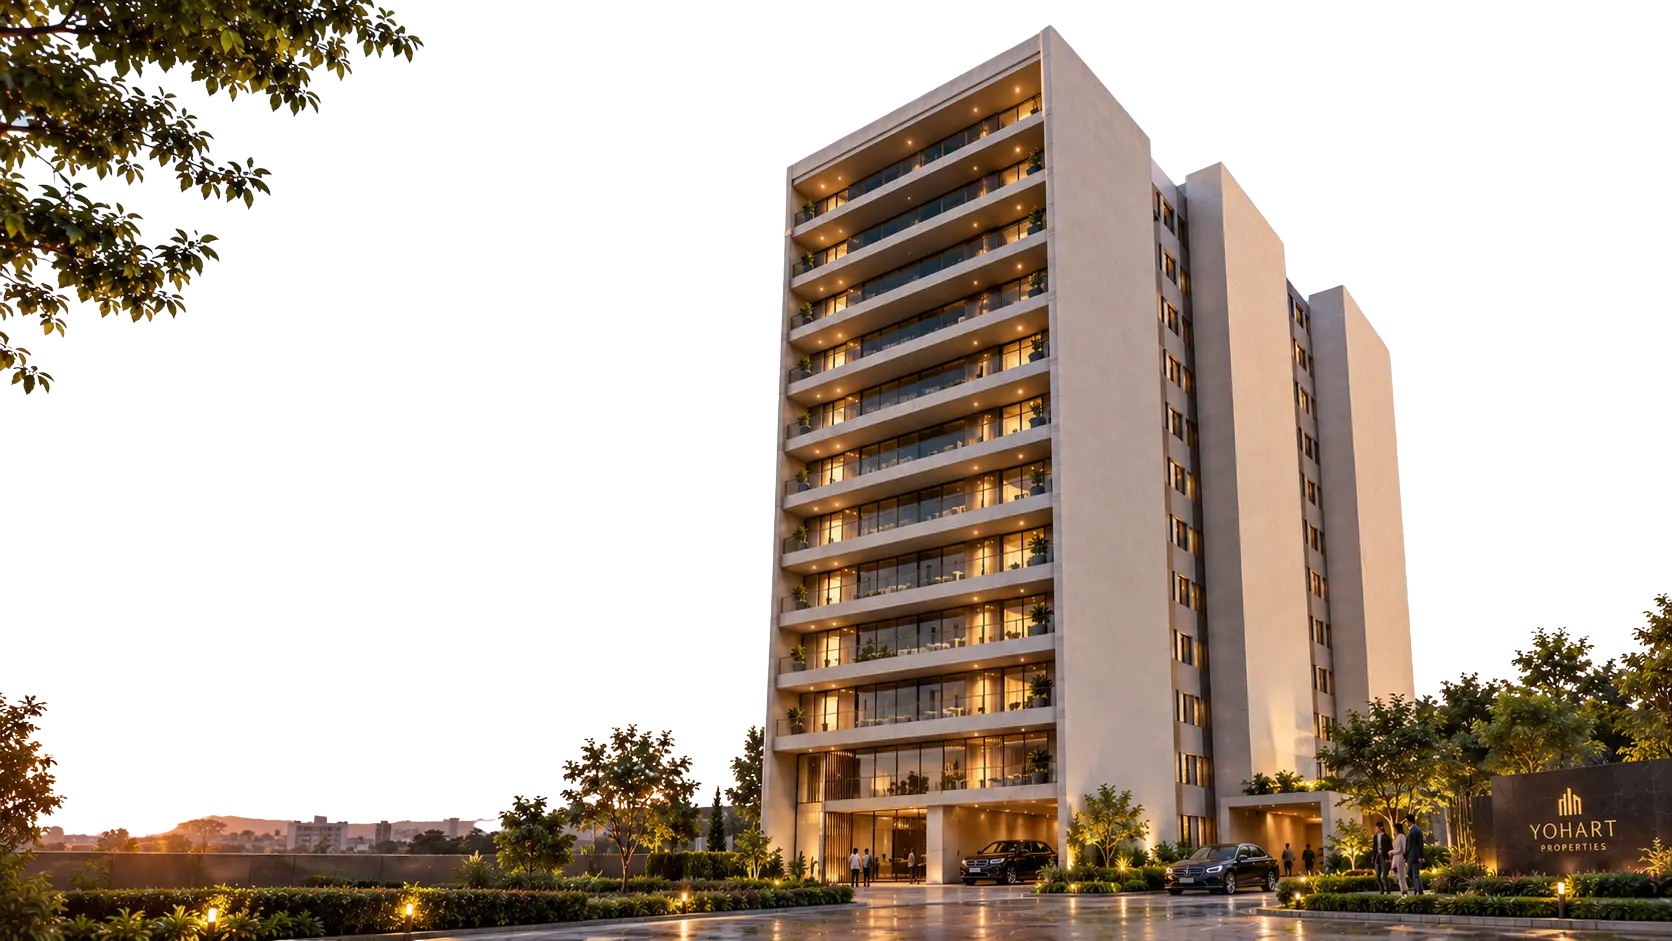
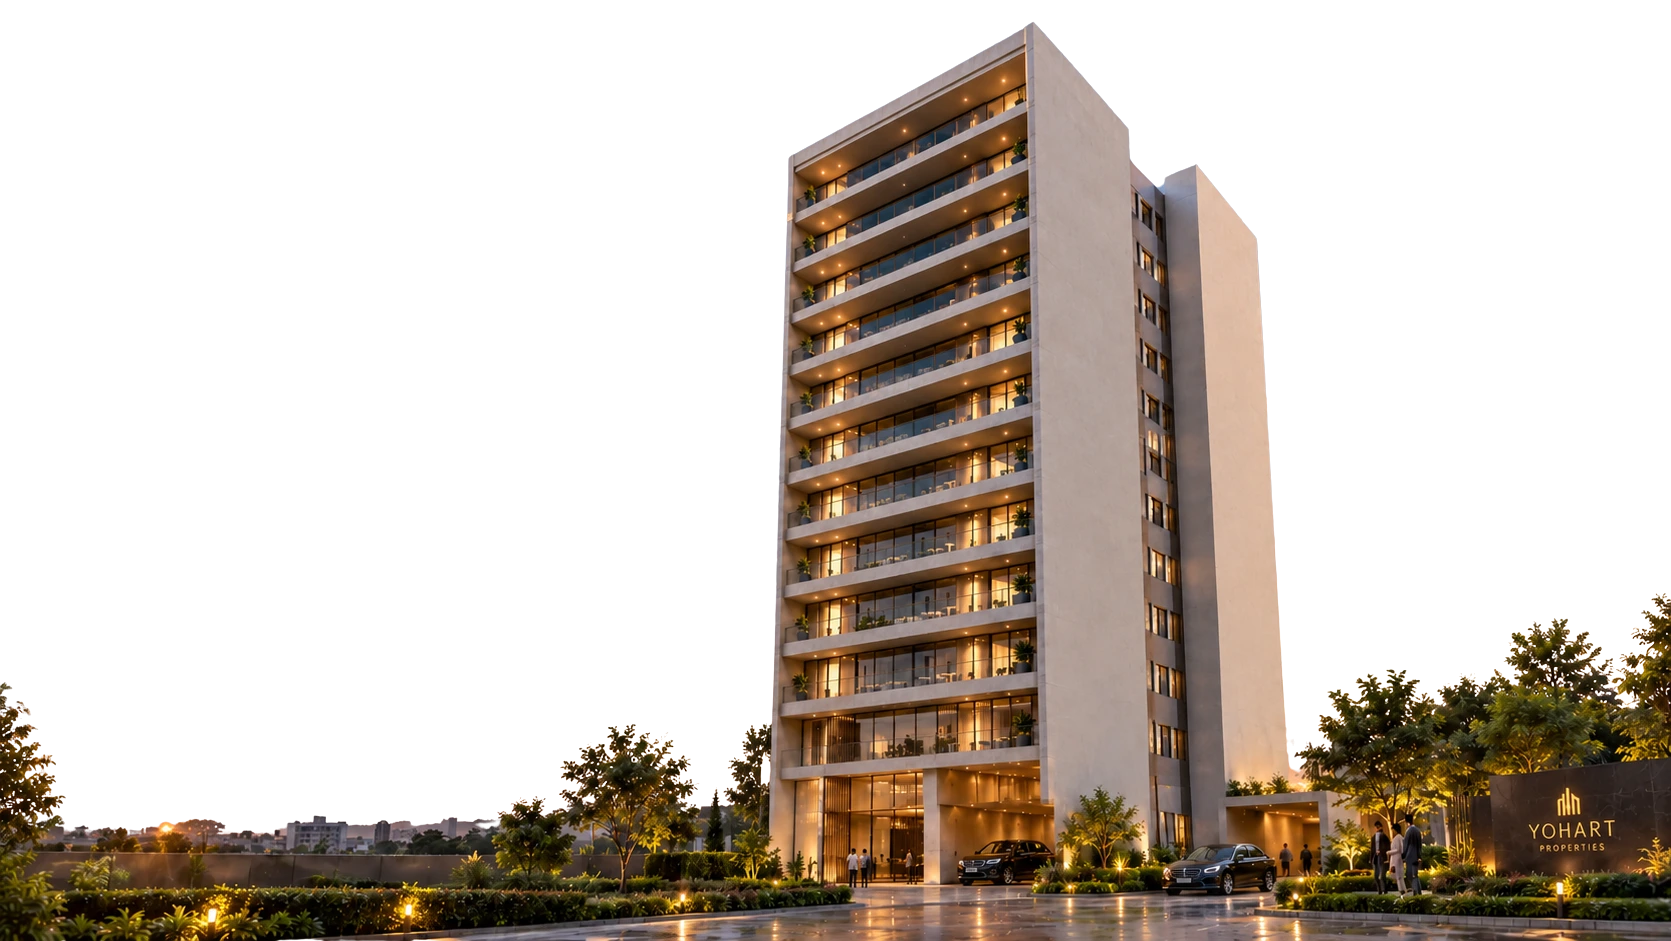
amenties section fix

Changed region(s): [[0.0, 0.0308, 1.0, 1.0], [0.0, 0.0, 0.249, 0.4315]]

diff --git a/src/components/sections/Amenities/Amenities.tsx b/src/components/sections/Amenities/Amenities.tsx
@@ -1,32 +1,43 @@
 import Image from 'next/image';
-import amenities from "@/assets/home/amenities/amenities-bg.webp"
+import amenities from "@/assets/home/amenities/amenities-bg.webp";
+
 export default function Amenities() {
   return (
-<section id="Amenities" className="relative z-1">
-  <div className="trigger relative flex min-h-screen w-full items-stretch overflow-clip">
-    <Image src={amenities} 
-    alt="Amenities" 
-    className="background absolute top-1/3 h-[calc(100%+20rem)] w-full -translate-y-1/2 object-cover max-md:object-[60%_50%]" 
-    loading="eager"/>
-    <div className="wrapper relative z-1 flex items-stretch max-lg:flex-col-reverse max-md:flex-col">
-      <div className="flex w-1/3 flex-col items-start justify-between py-30 max-lg:w-2/3 max-lg:flex-col-reverse max-lg:pt-0 max-lg:pb-15 max-md:w-3/4 max-md:pt-10 max-md:pb-5">
-      <div className="videoWrap relative aspect-[1.43/1] w-full overflow-hidden rounded-[1.25rem]">
-      <video muted loop playsInline preload="none" className="portrait absolute -top-35 left-1/2 h-auto w-[200%] max-w-none -translate-x-1/2 object-cover"></video>
+    <section id="Amenities" className="relative z-1">
+      <div className="trigger relative flex min-h-screen w-full items-stretch overflow-clip">
+        <Image 
+          src={amenities} 
+          alt="Amenities" 
+          className="background absolute top-1/3 h-[calc(100%+20rem)] w-full -translate-y-1/2 object-cover object-[38%_50%] max-md:object-[60%_50%]" 
+          loading="eager"
+        />
+        <div className="wrapper relative z-1 flex items-stretch justify-between gap-10 max-lg:flex-col-reverse">
+
+          <div className="flex w-7/12 flex-col items-start justify-end py-30 max-xl:w-1/2 max-lg:w-full max-lg:pt-20 max-lg:pb-8 max-md:py-8">
+            <h2 className="hero text-cream-dark whitespace-nowrap uppercase max-xl:text-[8rem] max-lg:text-[6.5rem] max-md:text-[3rem]">
+              Amenities
+            </h2>
+          </div>
+
+       
+          <div className="flex w-1/3 flex-col items-end justify-between py-30 max-xl:w-5/12 max-lg:w-2/3 max-lg:items-start max-lg:pt-15 max-lg:pb-5 max-md:w-full max-md:pt-10 max-md:pb-5">
+            <div className="videoWrap relative aspect-[1.23/1] w-full overflow-hidden rounded-[1.25rem] left-[60px]">
+              <video 
+                src="/media/home/amenities/amenities.mp4"
+                autoPlay
+                muted 
+                loop 
+                playsInline 
+                preload="metadata" 
+                className="portrait absolute -top-25 left-1/2 h-auto w-[150%] max-w-none -translate-x-1/2 object-cover"
+              />
+            </div>
+            <p className="paragraph text-sand w-full pt-10 max-xl:pt-6 max-md:pt-6">
+              Thoughtfully planned living with dedicated resident parking across semi-basement and ground levels, welcoming entrance lobbies, green spaces, private balconies, and round-the-clock security facilities designed for modern urban comfort.
+            </p>
+          </div>
+        </div>
       </div>
-      <p className="paragraph text-sand w-3/4 max-xl:w-full max-lg:mb-40 max-md:hidden">
-      Thoughtfully planned living with dedicated resident parking across semi-basement and ground levels, welcoming entrance lobbies, green spaces, private balconies, and round-the-clock security facilities designed for modern urban comfort.
-      </p>
-      </div>
-      <div className="flex w-2/3 flex-col items-end justify-end gap-5 py-30 max-lg:items-start max-lg:pt-55 max-lg:pb-8 max-md:w-full max-md:flex-1 max-md:pt-0">
-      <h2 className="hero text-cream-dark whitespace-nowrap uppercase max-xl:text-[8rem] max-lg:text-[6.5rem] max-md:text-[3rem]">
-        Amenities
-        </h2>
-        <p className="paragraph text-sand mt-auto hidden w-3/4 pt-10 max-md:block">
-        Thoughtfully planned living with dedicated resident parking across semi-basement and ground levels, welcoming entrance lobbies, green spaces, private balconies, and round-the-clock security facilities designed for modern urban comfort.
-        </p>
-        </div>
-        </div>
-        </div>
-        </section>
+    </section>
   );
 }
